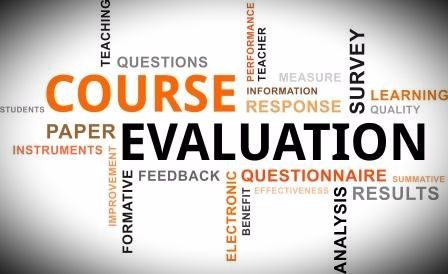
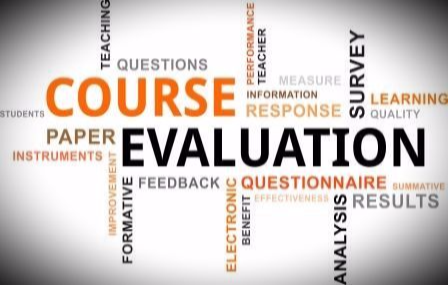
home

diff --git a/app/assets/stylesheets/bootstrap-overrides.css.scss b/app/assets/stylesheets/bootstrap-overrides.css.scss
@@ -119,6 +119,9 @@ th h3{
 	.home{
 	  	margin-top: 20px;
 	}
+	.course{
+	  margin-top: 10px
+	}
 }
 @media (min-width: 1200px) {
   .container-fluid {
@@ -127,4 +130,9 @@ th h3{
 }
 img{
   	width: 100%;
+}
+.breadcrumb {
+  background-color: #fff;
+  font-size: large;
+  margin-top: 10px;
 }
